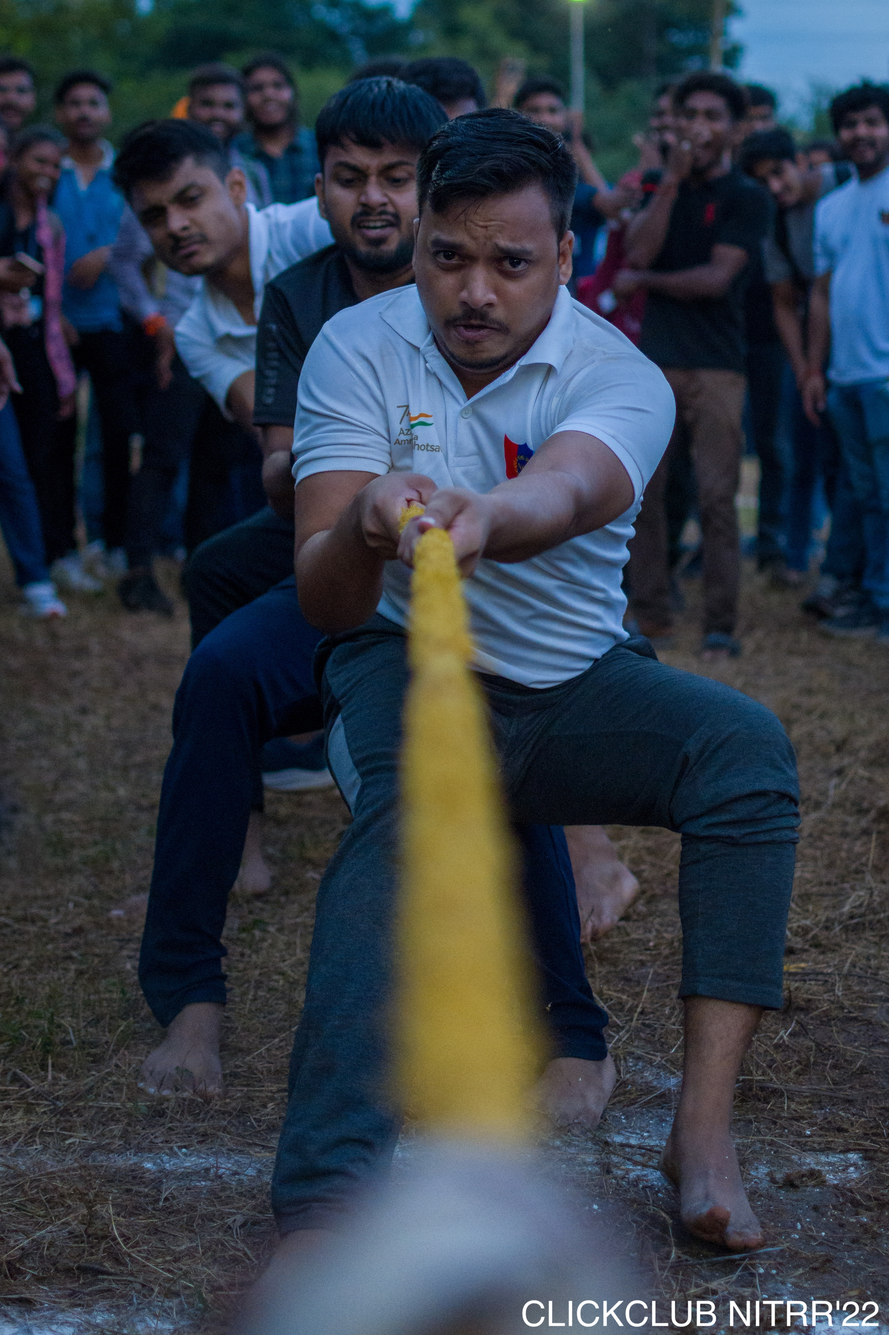
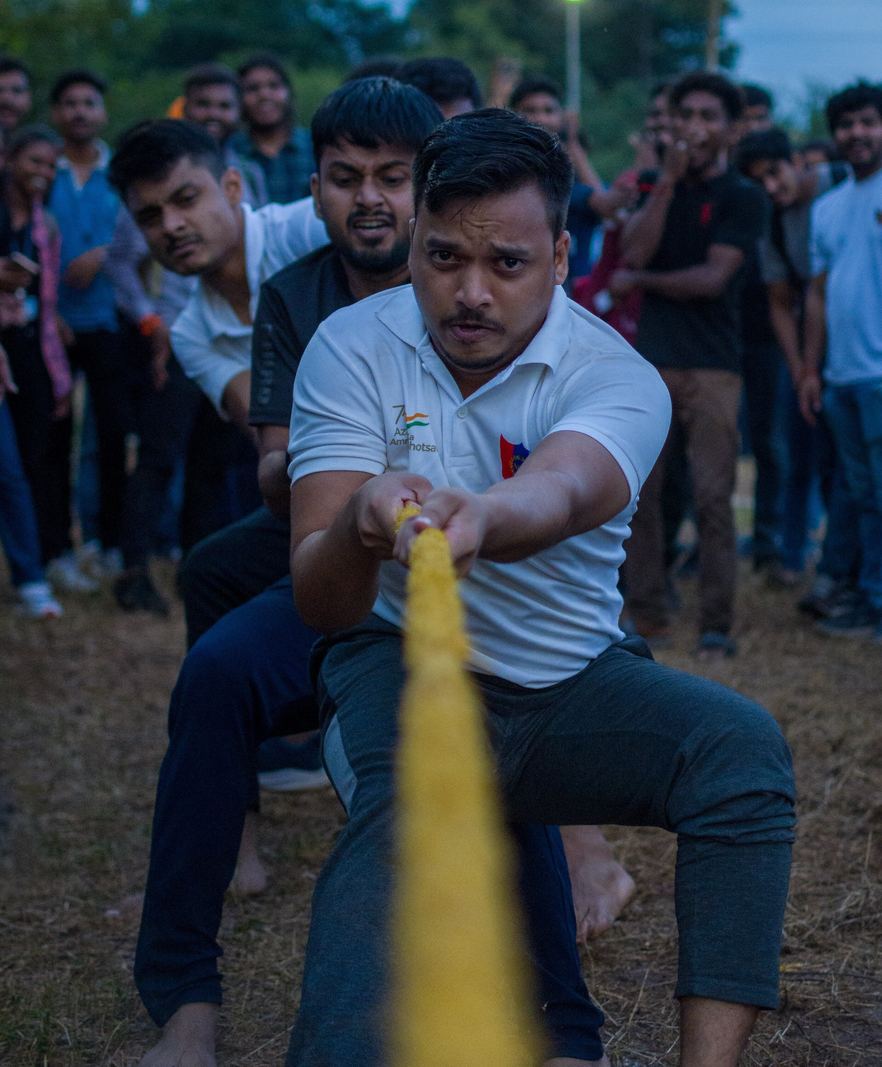
compressed images to webp format

diff --git a/src/routes/gallery/style.css b/src/routes/gallery/style.css
@@ -143,38 +143,38 @@ text-shadow: 1px 1px rgba(0, 0, 0, 0.04), 2px 2px rgba(0, 0, 0, 0.04), 3px 3px r
 }
 
 .gallery-flip .img2{
-  background: url('../../Assets/Images/gallery-images/blue-car.jpeg');
+  background: url('../../Assets/Images/gallery-images/blue-car.webp');
 }
 
 .gallery-flip .img3{
-  background: url('../../Assets/Images/gallery-images/born-fire.jpeg');
+  background: url('../../Assets/Images/gallery-images/born-fire.webp');
 }.gallery-flip .img4{
-  background: url('../../Assets/Images/gallery-images/DJ\ Night.jpeg');
+  background: url('../../Assets/Images/gallery-images/DJ\ Night.webp');
 }.gallery-flip .img5{
-  background: url('../../Assets/Images/gallery-images/Field.jpeg');
+  background: url('../../Assets/Images/gallery-images/Field.webp');
 }.gallery-flip .img6{
-  background: url('../../Assets/Images/gallery-images/pickel.JPG');
+  background: url('../../Assets/Images/gallery-images/pickel.webp');
 }.gallery-flip .img7{
-  background: url('../../Assets/Images/gallery-images/pickel\ ball.JPG');
+  background: url('../../Assets/Images/gallery-images/pickel\ ball.webp');
 }.gallery-flip .img8{
-  background: url('../../Assets/Images/gallery-images/sports-day\ tug\ of\ war.jpg');
+  background: url('../../Assets/Images/gallery-images/sports-day-tug-of-war.webp');
 }.gallery-flip .img9{
-  background: url('../../Assets/Images/gallery-images/SportsDay-10.jpg');
+  background: url('../../Assets/Images/gallery-images/SportsDay-10.webp');
 }.gallery-flip .img10{
-  background: url('../../Assets/Images/gallery-images/SportsDay-11.jpg');
+  background: url('../../Assets/Images/gallery-images/SportsDay-11.webp');
 }.gallery-flip .img11{
-  background: url('../../Assets/Images/gallery-images/SportsDay-12.jpg');
+  background: url('../../Assets/Images/gallery-images/SportsDay-12.webp');
 }.gallery-flip .img12{
-  background: url('../../Assets/Images/gallery-images/SportsDay-3.jpg');
+  background: url('../../Assets/Images/gallery-images/SportsDay-3.webp');
 }
 .gallery-flip .img13{
-  background: url('../../Assets/Images/gallery-images/SportsDay-7.jpg');
+  background: url('../../Assets/Images/gallery-images/SportsDay-7.webp');
 }
 .gallery-flip .img14{
-  background: url('../../Assets/Images/gallery-images/tug\ of\ war.jpg');
+  background: url('../../Assets/Images/gallery-images/tug-of-war.webp');
 }
 .gallery-flip .img15{
-  background: url('../../Assets/Images/gallery-images/tug\ of\ war\ \(sd-2\).jpg');
+  background: url('../../Assets/Images/gallery-images/tug-of-war-sd-2.webp');
 }
 .gallery-flip .img16{
   background: url('../../Assets/Images/gallery-images/SportsDay-15.jpg');
